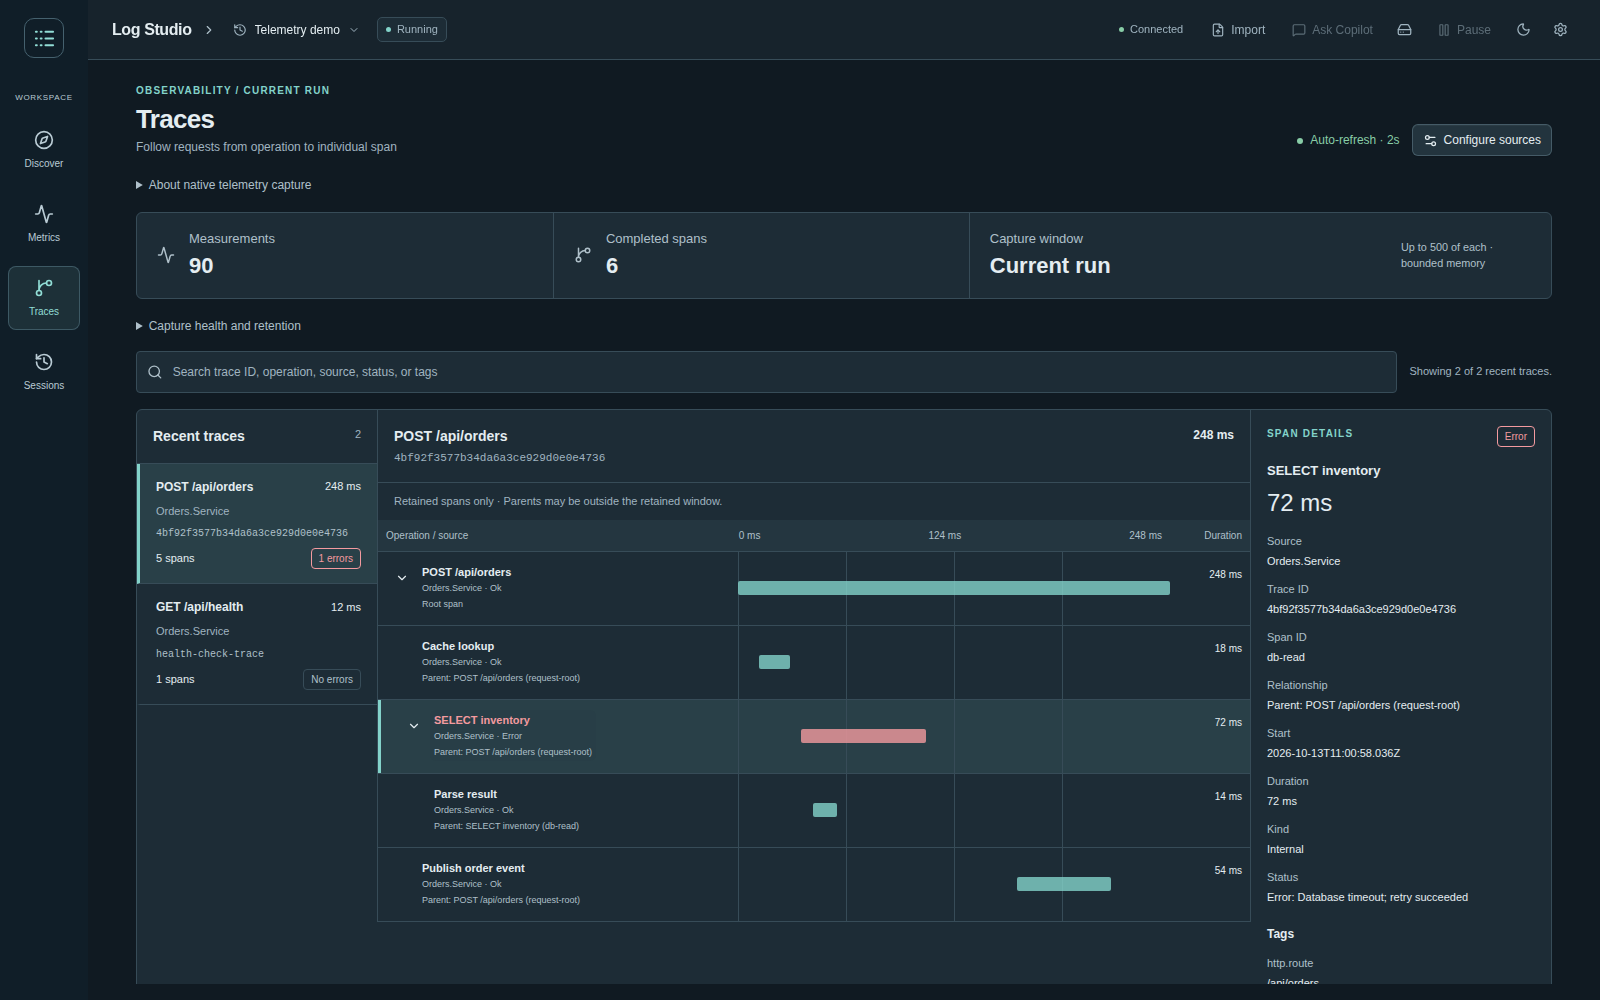
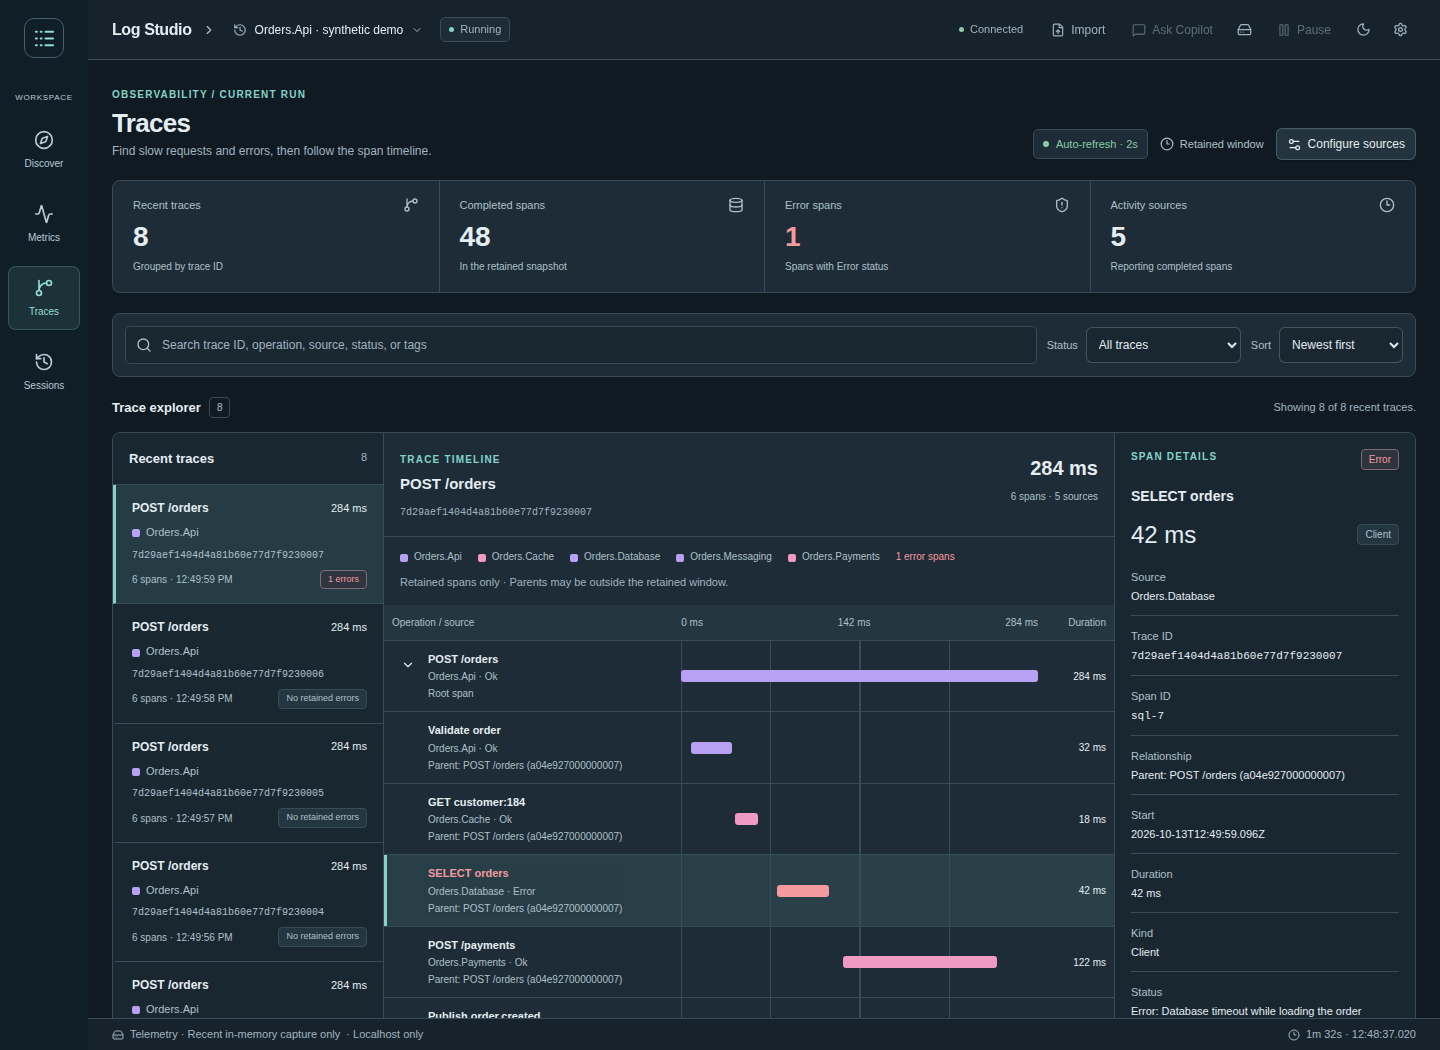
Polish responsive telemetry layout and refresh design screenshots

diff --git a/frontend/src/styles.css b/frontend/src/styles.css
@@ -1,4 +1,6 @@
 .app [hidden] { display: none !important; }
+.app:has(> .workspace-region > .telemetry-workspace) { grid-template-columns: minmax(0, 1fr); grid-template-rows: auto minmax(0, 1fr) auto; }
+.app > .workspace-region:has(> .telemetry-workspace) { margin: 0; }
 .telemetry-workspace {
   --telemetry-series-1: #007e88;
   --telemetry-series-2: #7253ba;
@@ -146,7 +148,7 @@ html[data-theme="dark"] .telemetry-workspace {
 @media (min-width: 1900px) {
   .telemetry-metrics { grid-template-columns: repeat(3, minmax(0, 1fr)); }
 }
-@media (max-width: 1600px) {
+@media (max-width: 1300px) {
   .trace-explorer { grid-template-columns: 270px minmax(0, 1fr); }
   .trace-list { grid-row: 1 / 3; }
   .trace-waterfall { border-right: 0; }
